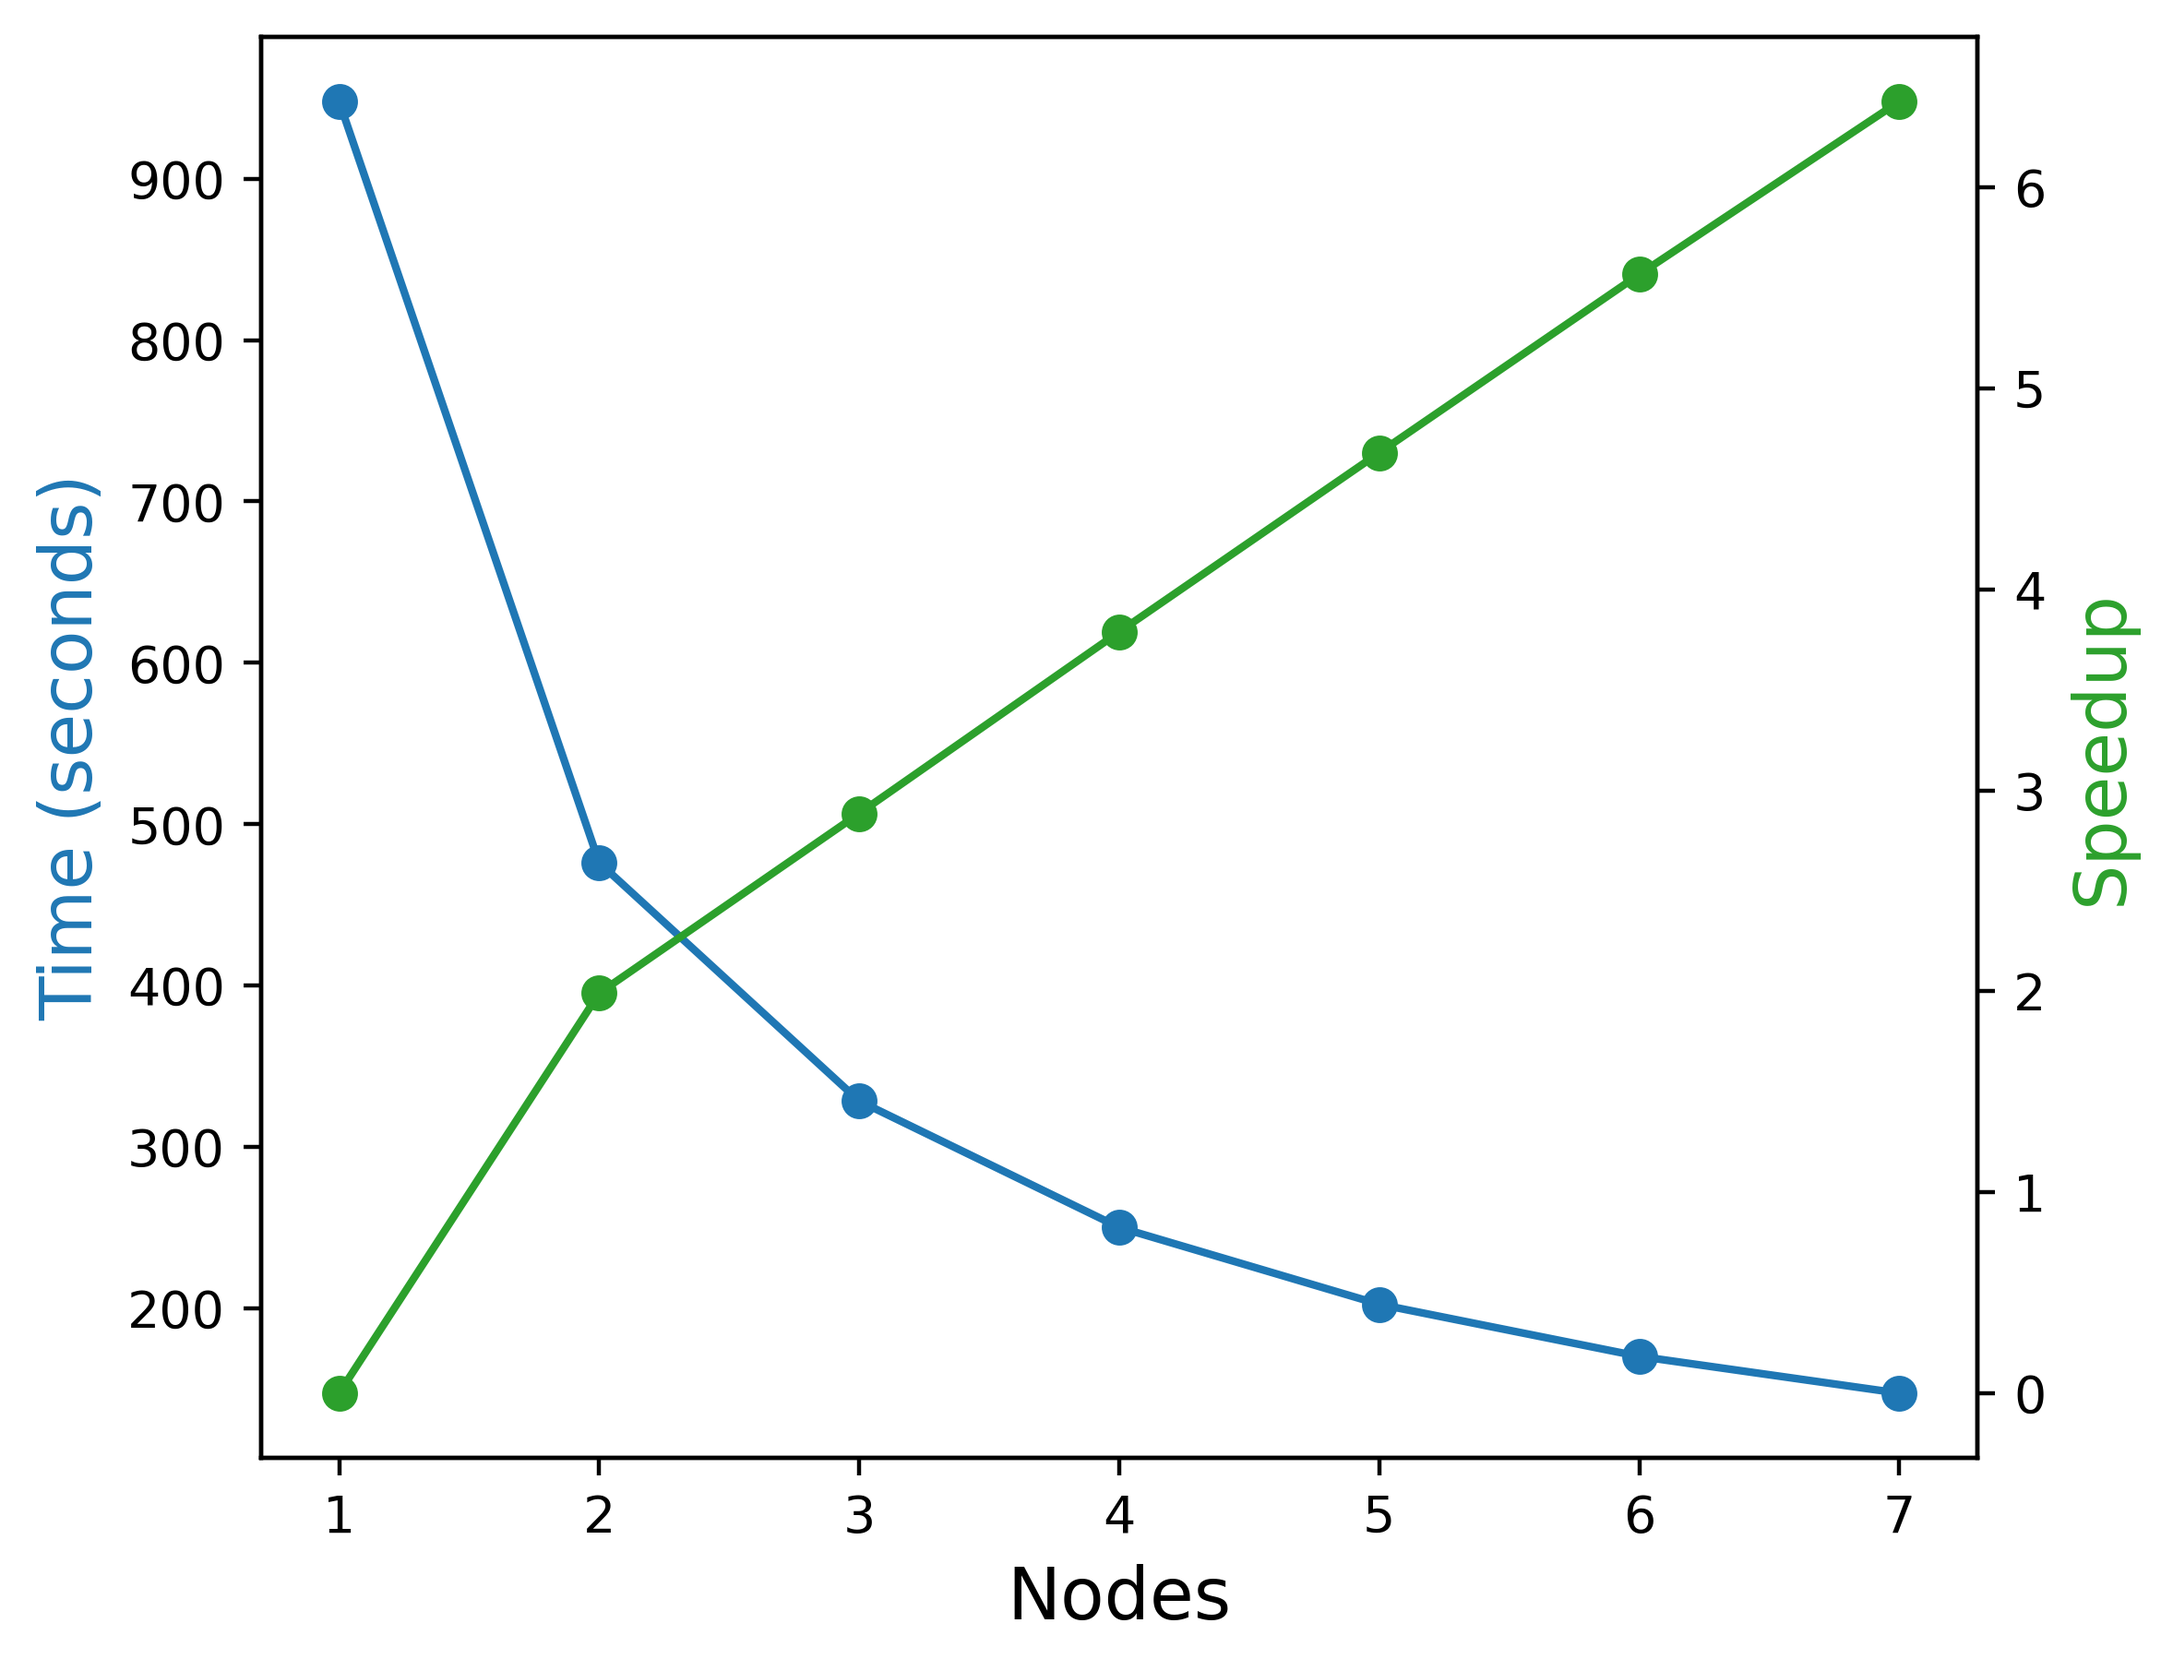
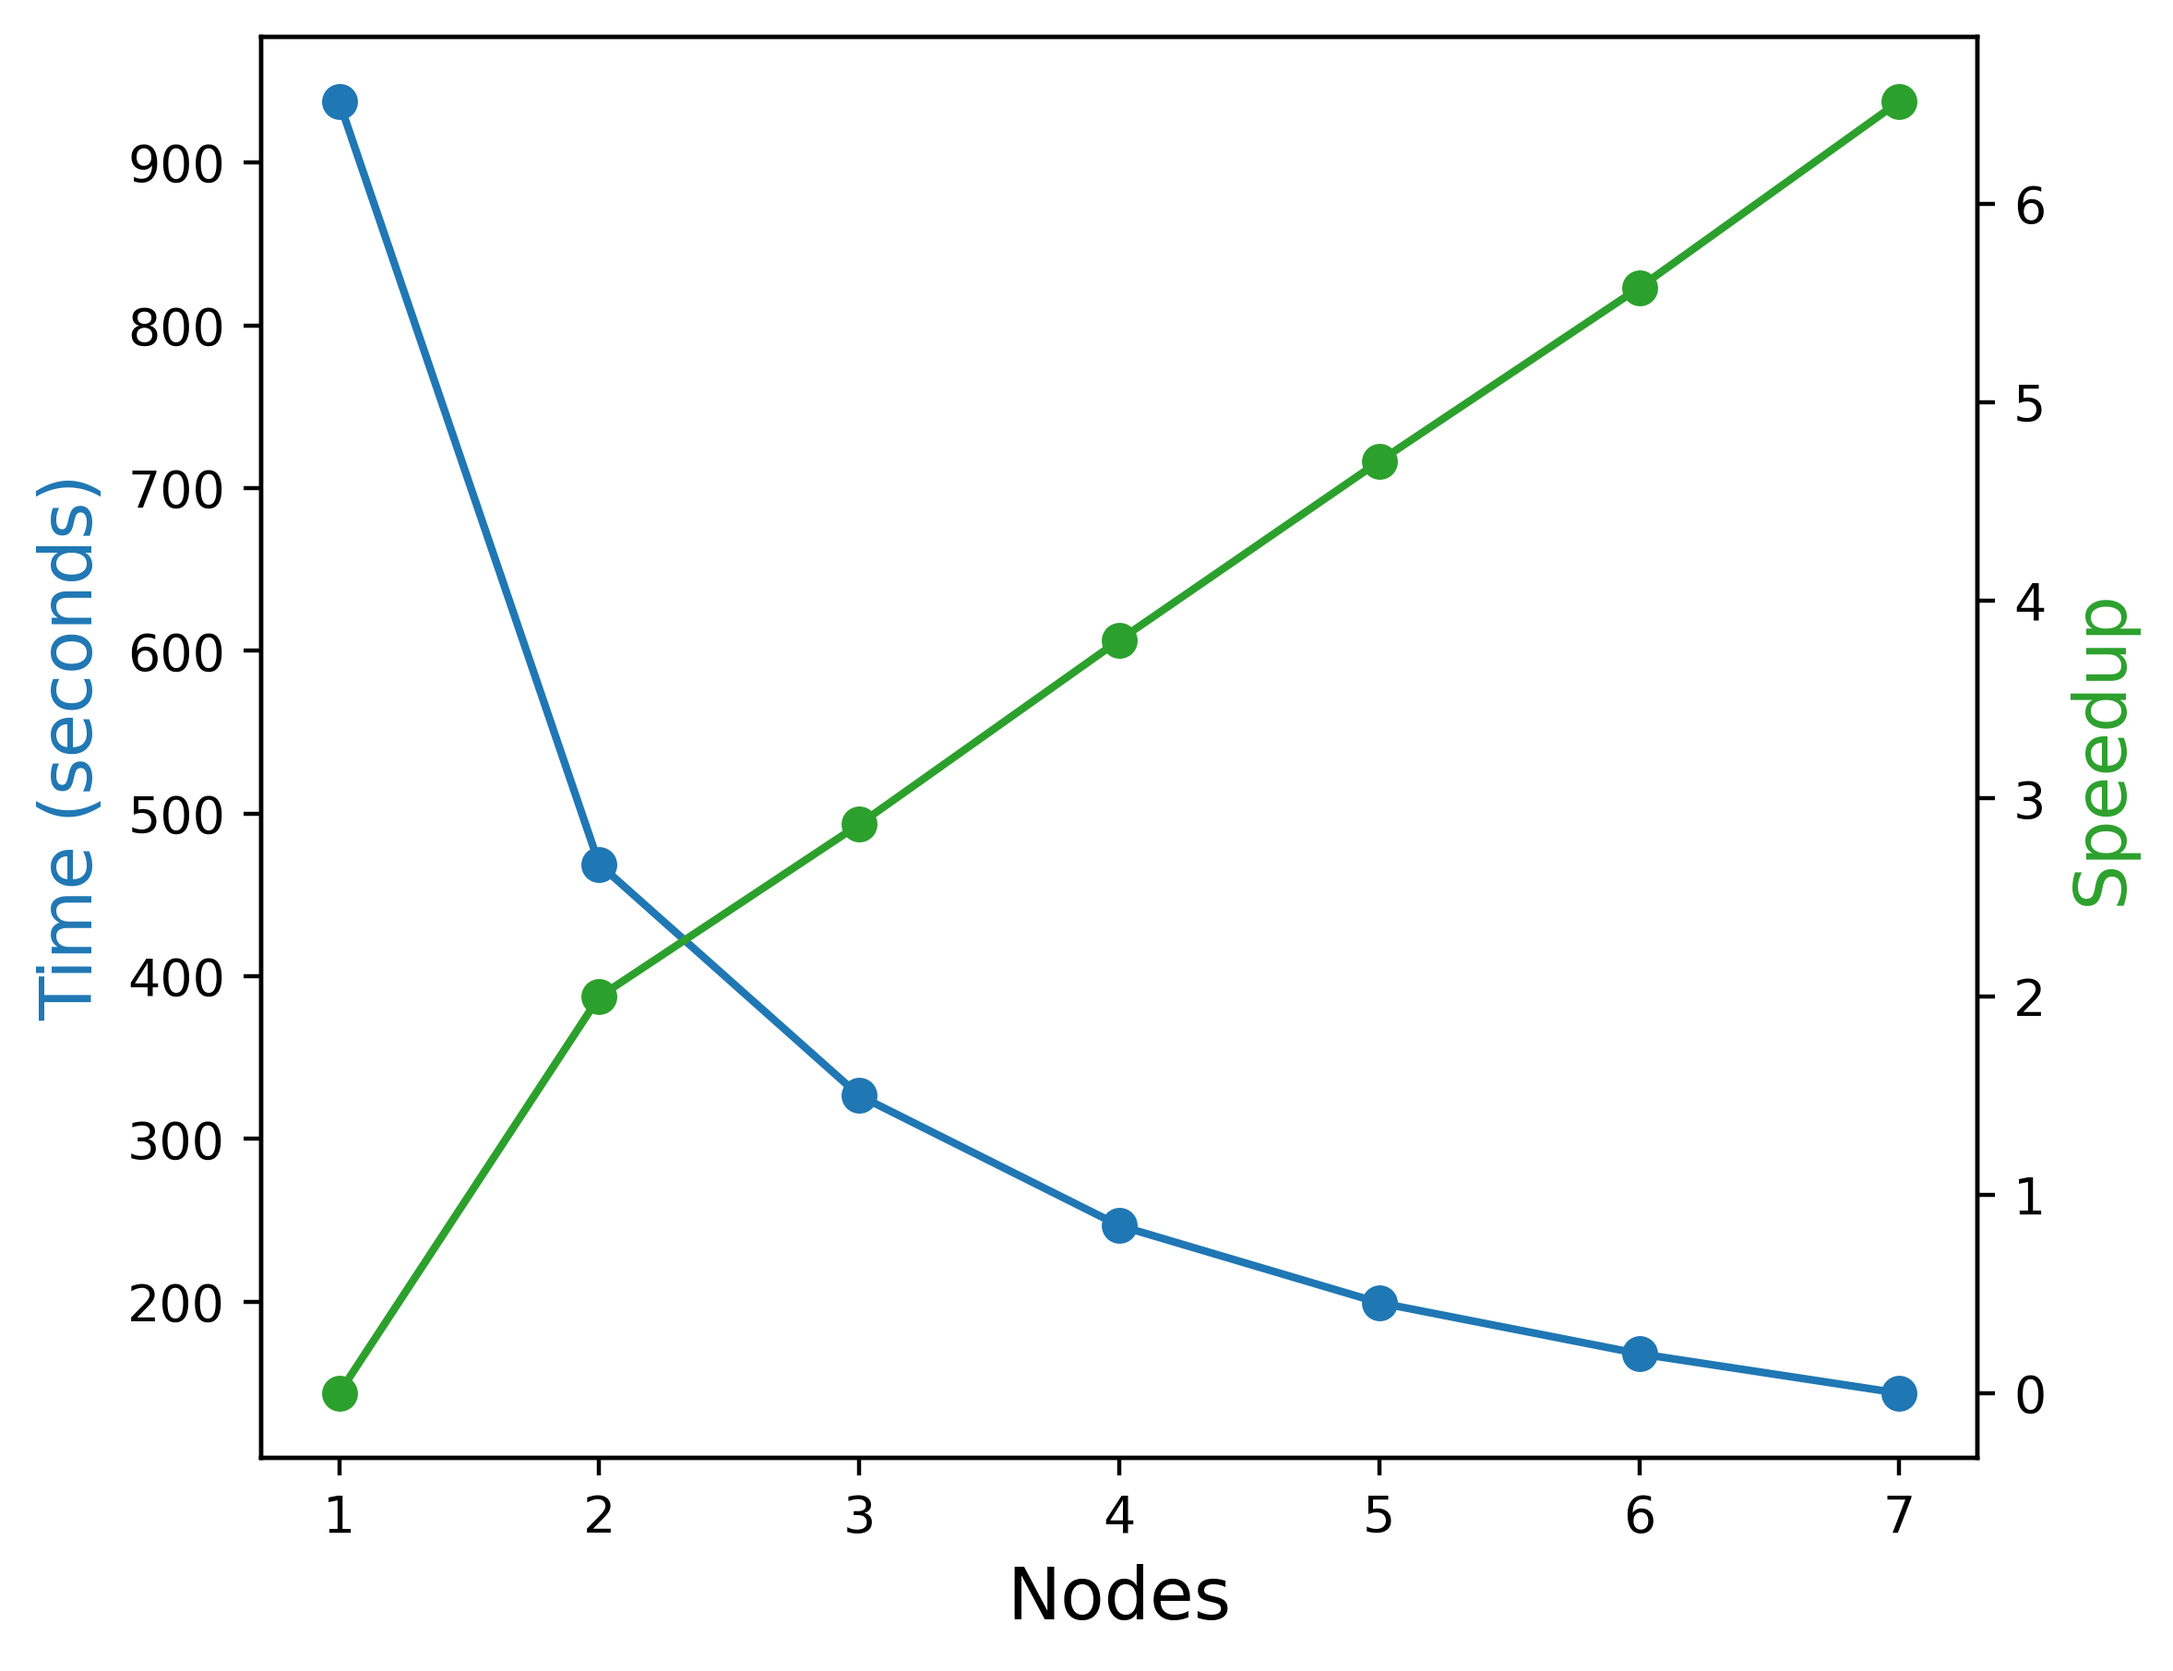
add 5th run

diff --git a/manuscript/BHraytracer.tex b/manuscript/BHraytracer.tex
@@ -153,14 +153,14 @@ In contrast, the number of rendered pixels, and the number of cores used present
   \centering
  \begin{minipage}{0.45\linewidth}
   \includegraphics[width=\linewidth]{figs/mpi_weak2.out}
- \caption{Weak scaling analysis where MPI process count and image width are increased in tandem  }
+ \caption{Weak scaling analysis where MPI process/OMP thread count and image width are increased in tandem }
 	  \Description{As core count and image width increase linearly, time increases linearly }
     \label{fig:mpi_weak2}
     \end{minipage}
   \hspace{.05\linewidth}
   \begin{minipage}{0.45\linewidth}
       \includegraphics[width=\linewidth]{figs/mpi_strong_multinode.out}
-      \caption{Multi-node scaling analysis with 4 cores per node}
+      \caption{Multi-node strong scaling analysis with 40 cores per node. Speedup decreases once network interconnect is utilized}
 	  \Description{Time still converges to serial fraction even on a mutlinode system }
         \label{mpi_strong_multinode}
     \end{minipage}
@@ -180,7 +180,6 @@ In contrast, the number of rendered pixels, and the number of cores used present
 \end{figure*}
 
 Fig.~\ref{fig:mpi_weak2} show a weak scaling analysis where we linearly increase the number of pixels rendered and the single-node cores utilized in tandem. We observe that both OpenMP and MPI start at around 145 seconds, and increase logarithmically before plateauing roughly around 170-185 seconds per run. While ideally, we would observe a consistent time which does not increase, these results show relatively stable performance. We also witness OpenMP slightly outperforming MPI, which is expected, since MPI requires transferring pixel data between processes.
-%TODO: Explain <5s variance as work division?
 
 We observe something similar with the strong scaling results in Figs.~\ref{fig:mpi_strong} and ~\ref{fig:omp_strong}. These results were run by increasing the number of cores used with a fixed workload. These results show an almost perfect convergence down to the serial fraction with similarly competitive results between OpenMP and MPI.
 
@@ -188,7 +187,7 @@ All the results and analysis presented in this section were obtained
 running our code on the Niagara supercomputer \cite{10.1145/3332186.3332195},
 which is a large homogeneous cluster composed by 2,024 Lenovo SD530 servers
 each with 40 Intel "Skylake"/"CascadeLake" cores working at approx. 2.4/2.5 GHz.
-Each result is an average of 5 runs with identical parameters.
+Each result is an average of 5 runs with identical parameters, and each MPI process is allocated 1 rank.
 
 %%%%%%%%%%%%%%%%%%%%%%%%%%%%%%%%%%%%%%%%%%%%%%%%%%%%%%%%%%%%%%%%%%%%%
 
